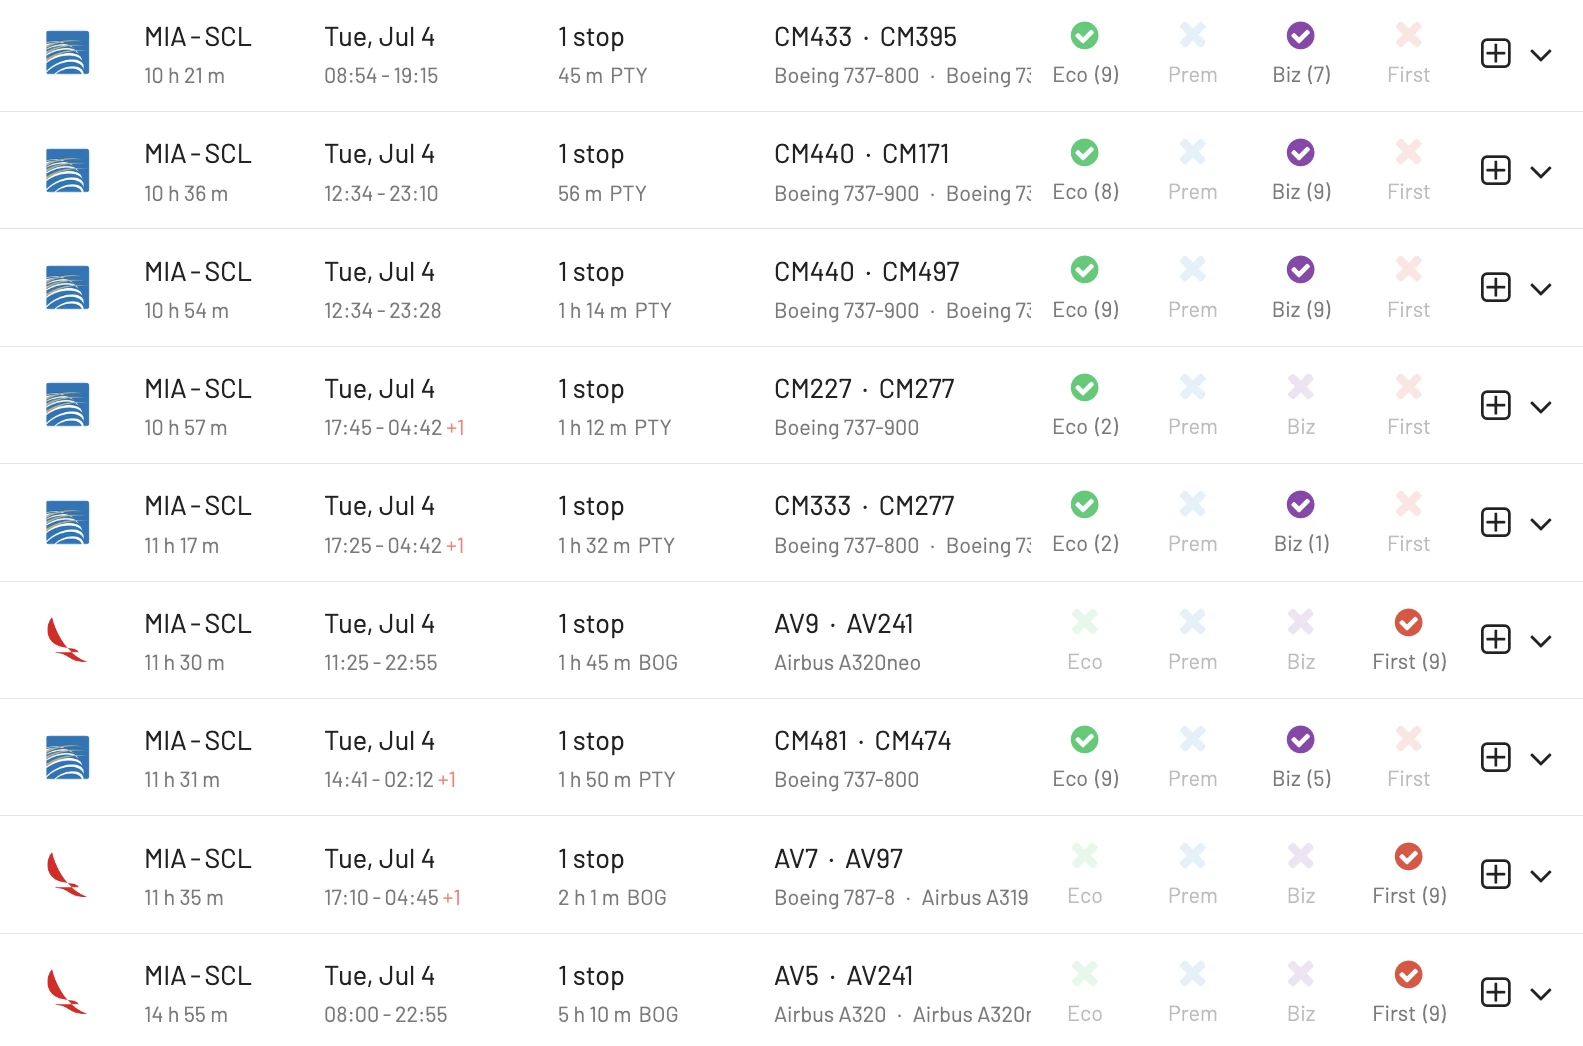
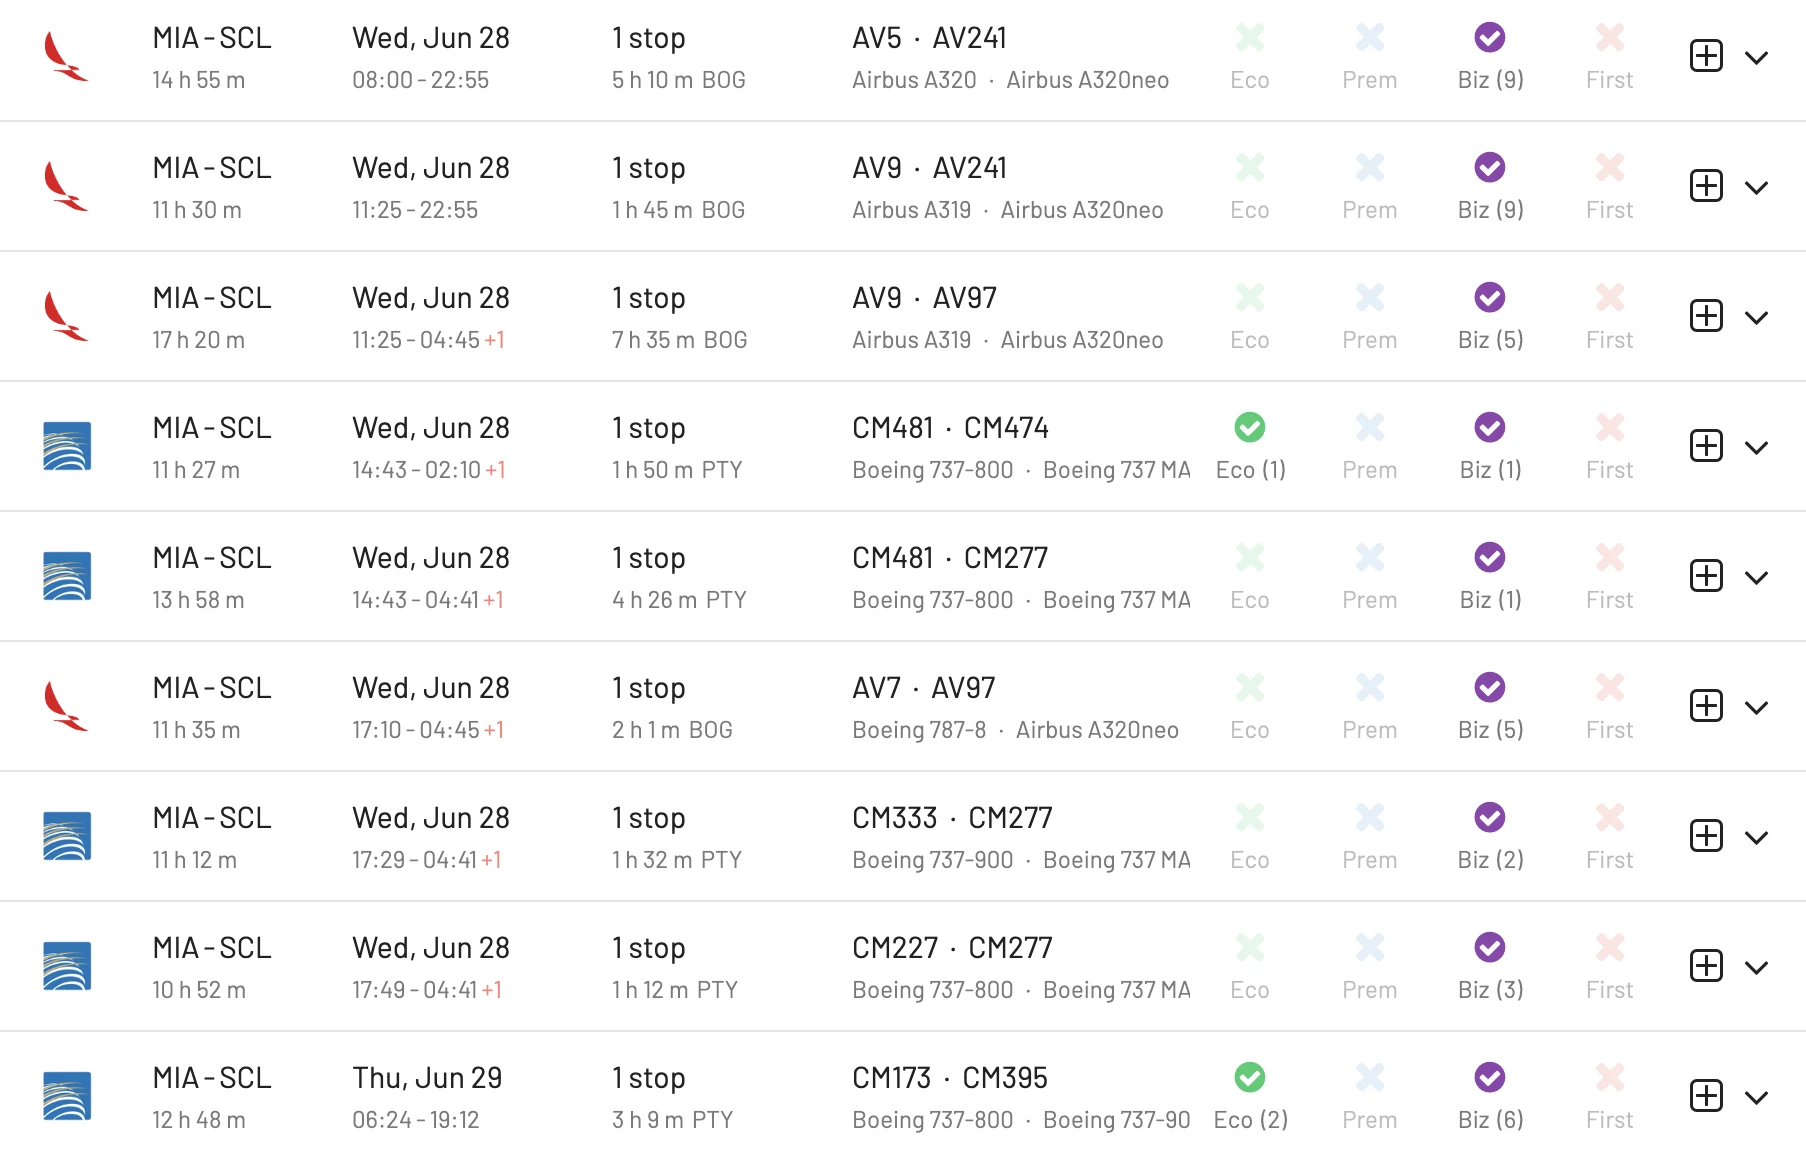
Fixes

diff --git a/_posts/2023-06-28-lifemiles-sweet-spots.md b/_posts/2023-06-28-lifemiles-sweet-spots.md
@@ -30,11 +30,11 @@ You can fly this route on many Star Alliance partners including Lufthansa, Austr
 
 
 
-### 2. [London to Tokyo on ANA First Class](https://awardfares.com/search?area:LON.area:TYO.;c:first;z:lifemiles)
+### 2. [Europe to Tokyo on ANA Business Class](https://awardfares.com/search?area:LON.area:TYO.;c:first;z:lifemiles)
 
 This flight is a rare find, with only a few seats released close to the date, but it is on the top of LifeMiles redemptions if you can score one. Try setting an alert using AwardFares to get notified via email when seats open.
 
-<img src="/assets/img/lifemiles-sweet-spots/lhr-hnd-first.webp" alt="London Heathrow to Tokyo Haneda on ANA First Class using LifeMiles (AwardFares)." />
+<img src="/assets/img/lifemiles-sweet-spots/europe-tyo.webp" alt="Europe to Tokyo Haneda on ANA Business Class using LifeMiles (AwardFares)." />
 
 
 ### 3. [Intra-Europe Flights](https://awardfares.com/search?zone:Europe.zone:Europe.;z:lifemiles)
